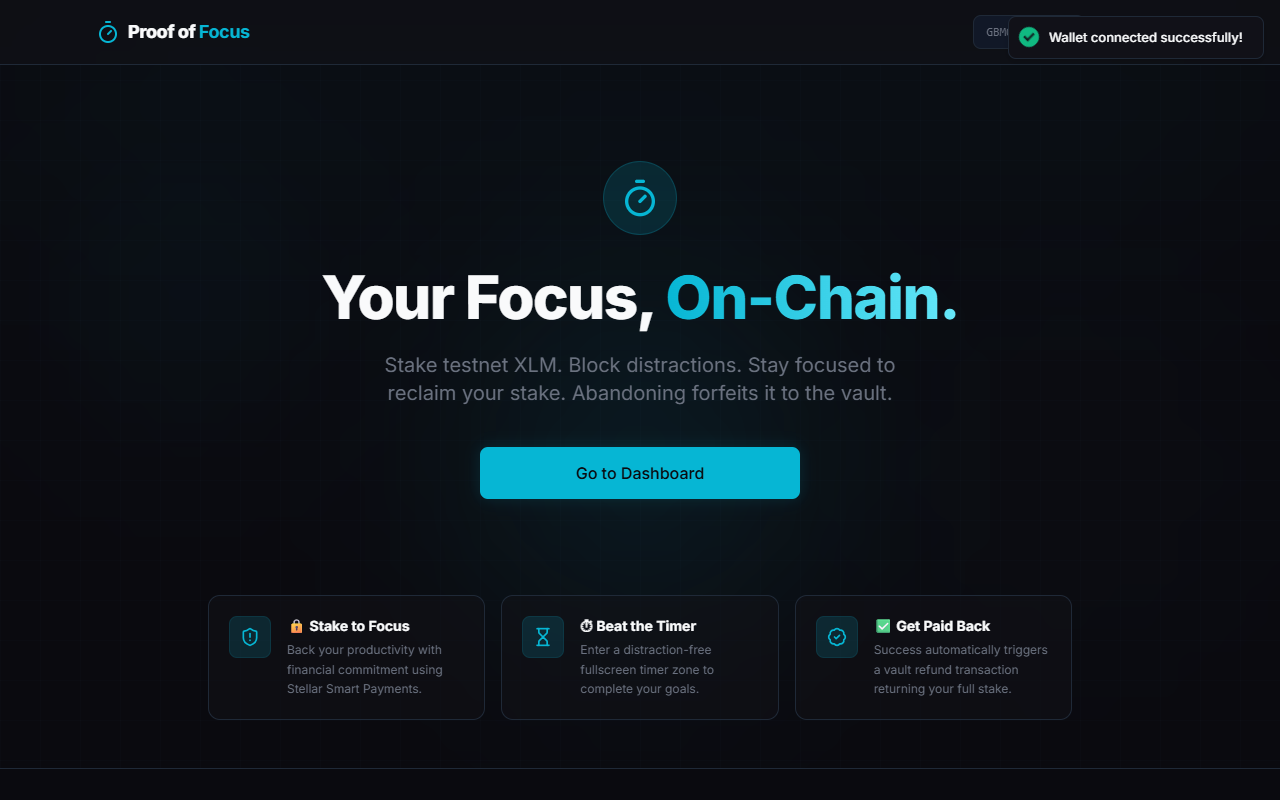
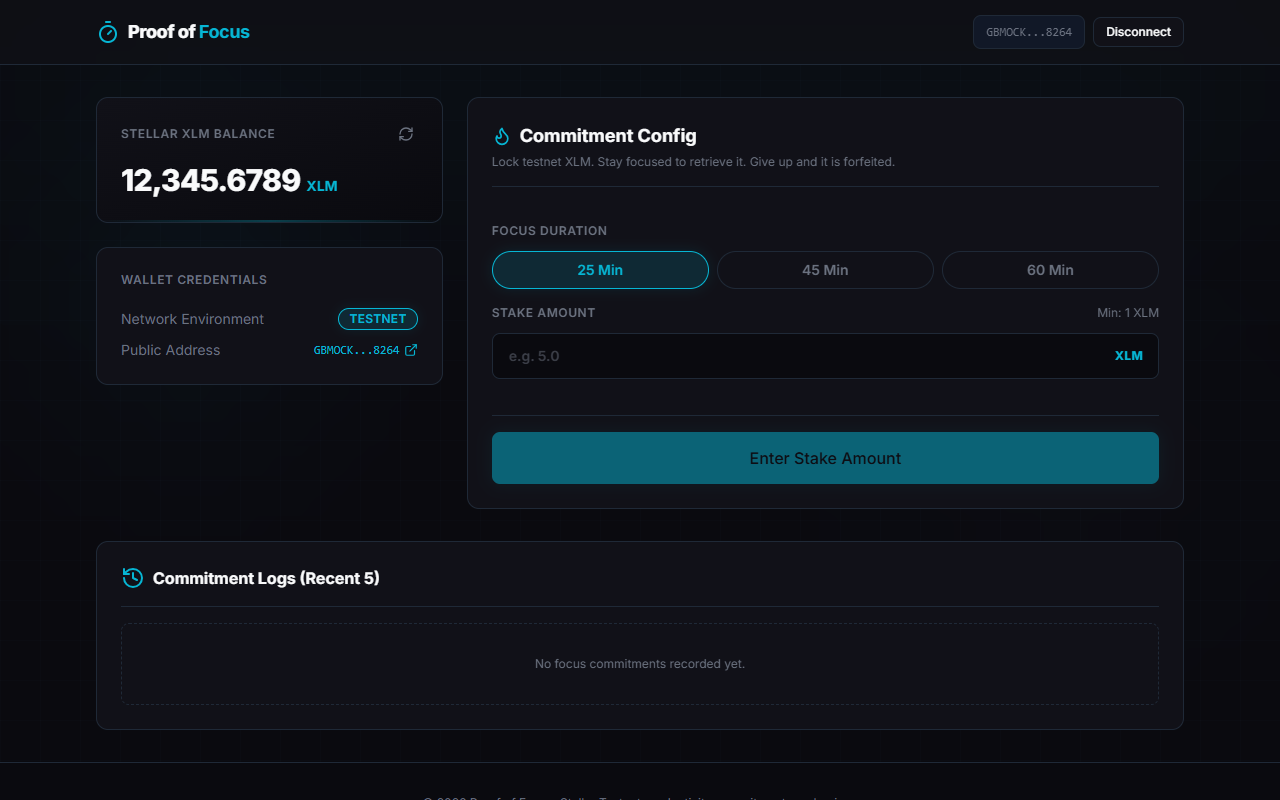
chore: update screenshots and automation script for better balance and transaction capture

diff --git a/scripts/generate-screenshots.js b/scripts/generate-screenshots.js
@@ -24,67 +24,92 @@ async function run() {
   try {
     const page = await browser.newPage();
     
+    // Log console and errors from page
+    page.on('console', msg => console.log('PAGE LOG:', msg.text()));
+    page.on('pageerror', err => console.log('PAGE ERROR:', err.toString()));
+    
     // Navigate to homepage with demo mode query parameter
-    console.log('Navigating to homepage...');
+    console.log('Navigating to homepage with ?demo=true...');
     await page.goto('http://localhost:5173/?demo=true', { waitUntil: 'networkidle2' });
     await new Promise(r => setTimeout(r, 1000));
 
-    // 1. Click "Connect Wallet"
-    console.log('Connecting wallet...');
+    // 1. Click "Connect Wallet" on the Landing page
+    console.log('Clicking Connect Wallet button...');
     await page.evaluate(() => {
       const buttons = Array.from(document.querySelectorAll('button'));
       const connectBtn = buttons.find(b => b.textContent.includes('Connect Wallet'));
       if (connectBtn) connectBtn.click();
     });
 
-    // Wait for wallet connection to process
-    await new Promise(r => setTimeout(r, 1500));
+    // Wait 2 seconds for wallet connection
+    await new Promise(r => setTimeout(r, 2000));
 
-    // 2. Take Screenshot 1: wallet_connected.png
-    console.log('Taking wallet_connected.png screenshot...');
+    // Fallback: Navigate directly to /dashboard to bypass router pathname/history delay
+    console.log('Navigating directly to /dashboard...');
+    await page.goto('http://localhost:5173/dashboard', { waitUntil: 'networkidle2' });
+
+    // Wait for the mock balance to load
+    console.log('Waiting for balance (12,345.6789) to display on dashboard...');
+    await page.waitForFunction(() => {
+      return document.body.innerText.includes('12,345.6789');
+    }, { timeout: 15000 });
+    await new Promise(r => setTimeout(r, 1500)); // wait for layout/animations to fully settle
+
+    // 2. Take Screenshot 1: wallet_connected.png (showing dashboard page with connected address in navbar)
+    console.log('Taking wallet_connected.png...');
     await page.screenshot({ path: path.join(screenshotsDir, 'wallet_connected.png') });
 
-    // 3. Take Screenshot 2: balance_displayed.png
-    console.log('Taking balance_displayed.png screenshot...');
+    // 3. Take Screenshot 2: balance_displayed.png (showing the balance display card)
+    console.log('Taking balance_displayed.png...');
     await page.screenshot({ path: path.join(screenshotsDir, 'balance_displayed.png') });
 
-    // 4. Input stake amount
-    console.log('Setting stake amount...');
+    // 4. Input stake amount using native descriptor update to trigger React state correctly
+    console.log('Setting stake amount to 10 XLM...');
     await page.evaluate(() => {
-      const input = document.querySelector('input[type="number"]');
+      const input = document.querySelector('input[inputmode="decimal"]') || document.querySelector('input');
       if (input) {
-        input.value = '10';
+        const nativeInputValueSetter = Object.getOwnPropertyDescriptor(
+          window.HTMLInputElement.prototype,
+          'value'
+        ).set;
+        nativeInputValueSetter.call(input, '10');
         input.dispatchEvent(new Event('input', { bubbles: true }));
+        input.dispatchEvent(new Event('change', { bubbles: true }));
+      } else {
+        console.error('Stake input field NOT found!');
       }
     });
 
-    await new Promise(r => setTimeout(r, 500));
+    await new Promise(r => setTimeout(r, 1000));
 
     // Click "Lock Stake & Start"
-    console.log('Starting focus session...');
+    console.log('Clicking Lock Stake & Start...');
     await page.evaluate(() => {
       const buttons = Array.from(document.querySelectorAll('button'));
       const startBtn = buttons.find(b => b.textContent.includes('Lock Stake & Start'));
-      if (startBtn) startBtn.click();
+      if (startBtn) {
+        startBtn.click();
+      } else {
+        console.error('Lock Stake & Start button NOT found or disabled!');
+      }
     });
 
-    // 5. Take Screenshot 3: transaction_success.png (during transaction processing or right after start)
-    await new Promise(r => setTimeout(r, 500));
-    console.log('Taking transaction_success.png screenshot...');
+    // Wait for navigation/redirection to the /focus page
+    console.log('Waiting for transition to /focus page...');
+    await page.waitForFunction(() => window.location.pathname.includes('/focus'), { timeout: 15000 });
+    await new Promise(r => setTimeout(r, 1500)); // let countdown render
+
+    // 5. Take Screenshot 3: transaction_success.png (showing focus timer and Locked Stake proof link)
+    console.log('Taking transaction_success.png...');
     await page.screenshot({ path: path.join(screenshotsDir, 'transaction_success.png') });
 
-    // Wait for the mock transaction to complete and redirect to the focus session page
-    await new Promise(r => setTimeout(r, 2000));
+    // 6. Wait for the 10-second countdown to complete and redirect to /success
+    console.log('Waiting for focus session countdown and auto-redirect to /success page...');
+    await page.waitForFunction(() => window.location.pathname.includes('/success'), { timeout: 25000 });
+    await new Promise(r => setTimeout(r, 2000)); // let confetti animations settle
 
-    // 6. Let the 10-second countdown session finish, wait 11 seconds to auto-trigger complete refund
-    console.log('Waiting for focus session countdown to complete...');
-    await new Promise(r => setTimeout(r, 11000));
-
-    // Wait for refund transition to finish and redirect to success page
-    await new Promise(r => setTimeout(r, 3000));
-
-    // 7. Take Screenshot 4: transaction_result.png
-    console.log('Taking transaction_result.png screenshot...');
+    // 7. Take Screenshot 4: transaction_result.png (showing success page with refund proofs)
+    console.log('Taking transaction_result.png...');
     await page.screenshot({ path: path.join(screenshotsDir, 'transaction_result.png') });
 
     console.log('All screenshots captured successfully!');

diff --git a/src/stellar/freighter.js b/src/stellar/freighter.js
@@ -14,7 +14,7 @@ const {
  * In v6, isConnected() returns { isConnected: boolean }
  */
 export async function isFreighterInstalled() {
-  if (typeof window !== "undefined" && window.location.search.includes("demo=true")) {
+  if (typeof window !== "undefined" && (window.location.search.includes("demo=true") || sessionStorage.getItem("demo_mode") === "true")) {
     return true;
   }
   try {
@@ -36,7 +36,7 @@ export async function isFreighterInstalled() {
  * In v6, requestAccess() returns { address: string, error?: FreighterApiError }
  */
 export async function requestWalletAccess() {
-  if (typeof window !== "undefined" && window.location.search.includes("demo=true")) {
+  if (typeof window !== "undefined" && (window.location.search.includes("demo=true") || sessionStorage.getItem("demo_mode") === "true")) {
     return { address: "GBMOCKWALLETADDRESSFORSTELLARLEVELONEEXCELLE472648264" };
   }
   try {
@@ -61,7 +61,7 @@ export async function requestWalletAccess() {
  * NOT just a plain string.
  */
 export async function getConnectedPublicKey() {
-  if (typeof window !== "undefined" && window.location.search.includes("demo=true")) {
+  if (typeof window !== "undefined" && (window.location.search.includes("demo=true") || sessionStorage.getItem("demo_mode") === "true")) {
     return "GBMOCKWALLETADDRESSFORSTELLARLEVELONEEXCELLE472648264";
   }
   try {
@@ -92,7 +92,7 @@ export async function getConnectedPublicKey() {
  * @returns {Promise<string>} The network name string e.g. "TESTNET" or "PUBLIC"
  */
 export async function getConnectedNetwork() {
-  if (typeof window !== "undefined" && window.location.search.includes("demo=true")) {
+  if (typeof window !== "undefined" && (window.location.search.includes("demo=true") || sessionStorage.getItem("demo_mode") === "true")) {
     return "TESTNET";
   }
   try {
@@ -143,7 +143,7 @@ export async function getConnectedNetwork() {
  * @param {string} networkPassphrase - The Stellar network passphrase
  */
 export async function signTxWithFreighter(xdr, networkPassphrase = "Test SDF Network ; September 2015") {
-  if (typeof window !== "undefined" && window.location.search.includes("demo=true")) {
+  if (typeof window !== "undefined" && (window.location.search.includes("demo=true") || sessionStorage.getItem("demo_mode") === "true")) {
     console.log("[Mock Freighter] Simulating signing...");
     return xdr;
   }

diff --git a/src/main.jsx b/src/main.jsx
@@ -3,6 +3,10 @@ import { createRoot } from 'react-dom/client'
 import './index.css'
 import App from './App.jsx'
 
+if (typeof window !== 'undefined' && window.location.search.includes('demo=true')) {
+  sessionStorage.setItem('demo_mode', 'true');
+}
+
 createRoot(document.getElementById('root')).render(
   <StrictMode>
     <App />

diff --git a/src/store/sessionStore.js b/src/store/sessionStore.js
@@ -65,7 +65,7 @@ export const useSessionStore = create((set, get) => {
         : Math.random().toString(36).substring(2, 9);
       
       const startedAt = Date.now();
-      const isDemo = typeof window !== 'undefined' && window.location.search.includes('demo=true');
+      const isDemo = typeof window !== 'undefined' && (window.location.search.includes('demo=true') || sessionStorage.getItem('demo_mode') === 'true');
       const endsAt = startedAt + (isDemo ? 10 * 1000 : duration * 60 * 1000);
       
       const newSession = {